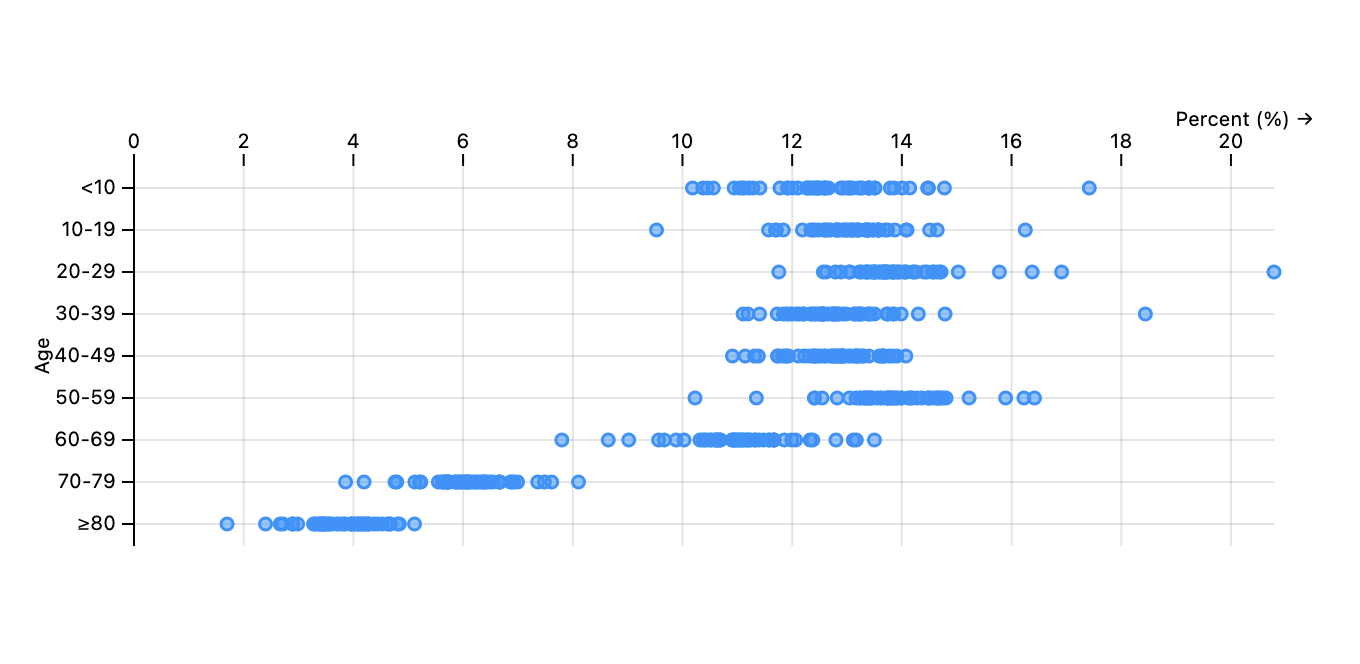
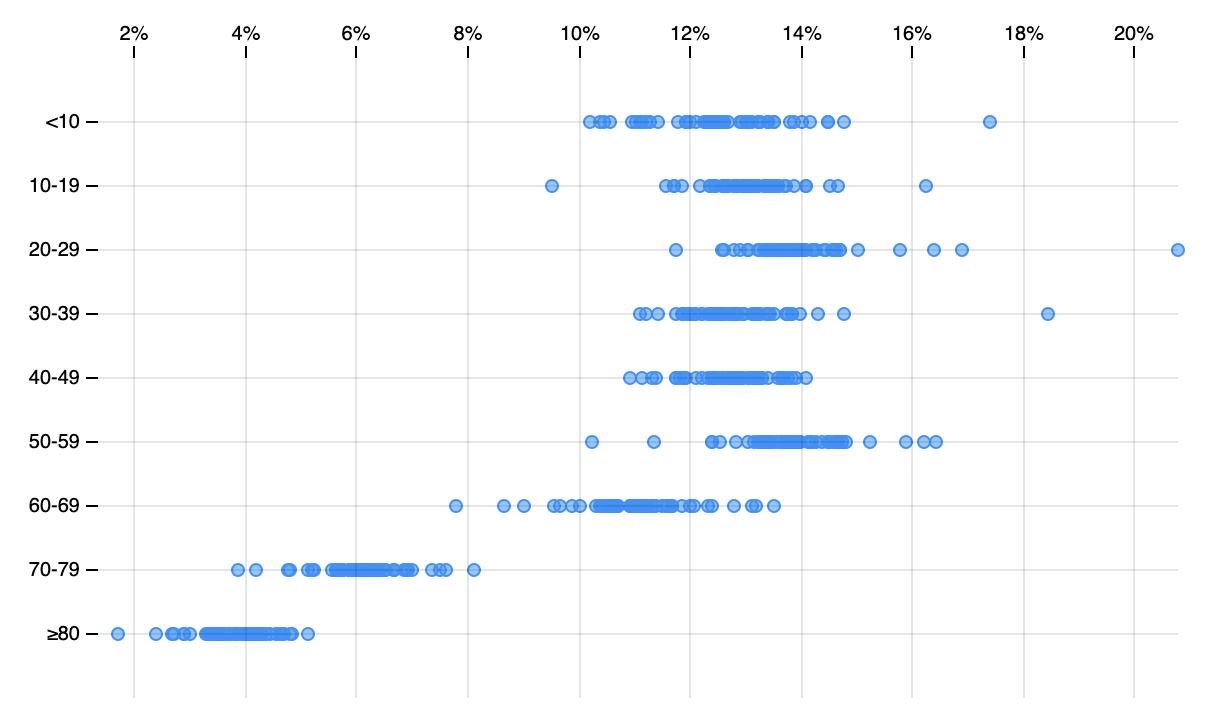
fix: rework StripPlot to pure d3 implementation

diff --git a/docs/pages/examples/strip-plot.tsx b/docs/pages/examples/strip-plot.tsx
@@ -1,89 +1,105 @@
 import * as React from 'react';
-import * as Plot from '@observablehq/plot';
 import Head from 'next/head';
+import * as fs from 'fs';
+import * as path from 'path';
+import * as d3 from 'd3';
 
-import { readData } from '../../helpers/server';
 import { withViewer } from '../../components/Viewer';
 
-enum AgeRange {
-  '<10',
-  '10-19',
-  '20-29',
-  '30-39',
-  '40-49',
-  '50-59',
-  '60-69',
-  '70-79',
-  '≥80',
-}
+const dimensions = {
+  width: 640,
+  height: 400,
+};
 
-const ages = Object.values(AgeRange).filter((x) => typeof x === 'string');
-
-interface StateDistribution {
-  name: string;
-  '<10': number;
-  '10-19': number;
-  '20-29': number;
-  '30-39': number;
-  '40-49': number;
-  '50-59': number;
-  '60-69': number;
-  '70-79': number;
-  '≥80': number;
-}
-
-interface StateAge {
+const margin = {
+  top: 40,
+  left: 60,
+  right: 40,
+  bottom: 40,
+};
+interface State {
   state: string;
-  age: AgeRange;
+  age: string;
   population: number;
 }
 
 interface Props {
-  data: StateAge[];
+  data: State[];
 }
 
 const Chart: React.FC<Props> = ({ data }) => {
-  const root = React.useRef<HTMLDivElement>(null);
+  const x = d3
+    .scaleLinear()
+    .domain(d3.extent(data, (d) => d.population))
+    .rangeRound([margin.left + 10, dimensions.width - margin.right]);
+
+  const y = d3
+    .scalePoint()
+    .domain(data.map((d) => d.age))
+    .rangeRound([margin.top, dimensions.height - margin.bottom])
+    .padding(1);
+
+  const xAxis = d3.axisTop(x).ticks(null, '%');
+  const yAxis = d3.axisLeft(y);
+
+  const xAxisRef = React.useRef<SVGGElement>(null);
+  const yAxisRef = React.useRef<SVGGElement>(null);
 
   React.useEffect(() => {
-    const node = root.current;
+    const xAx = xAxisRef.current;
+    const yAx = yAxisRef.current;
 
-    const plot = Plot.plot({
-      marginLeft: 50,
-      grid: true,
-      x: {
-        axis: 'top',
-        label: 'Percent (%) →',
-        transform: (d: number) => d * 100,
-      },
-      y: {
-        domain: ages,
-        label: 'Age',
-      },
-      marks: [
-        Plot.ruleX([0]),
-        Plot.dotX(data, {
-          ...Plot.normalizeX({
-            basis: 'sum',
-            z: 'state',
-            x: 'population',
-            y: 'age',
-          }),
-          fill: 'dodgerblue',
-          fillOpacity: 0.5,
-          stroke: 'dodgerblue',
-        }),
-      ],
-    });
+    d3.select(xAx)
+      .call(xAxis)
+      .call((g) =>
+        g
+          .selectAll('.tick line')
+          .clone()
+          .attr('stroke-opacity', 0.1)
+          .attr('y2', dimensions.height - margin.bottom - margin.top)
+      )
+      .call((g) => g.selectAll('.domain').remove());
 
-    node.appendChild(plot);
+    d3.select(yAx)
+      .call(yAxis)
+      .call((g) =>
+        g
+          .selectAll('.tick line')
+          .clone()
+          .attr('stroke-opacity', 0.1)
+          .attr('x2', dimensions.width - margin.right - margin.left)
+      )
+      .call((g) => g.selectAll('.domain').remove());
 
-    return (): void => {
-      node.removeChild(plot);
+    return () => {
+      d3.select(xAx).call((g) => g.selectAll('.tick line ~ line').remove());
+      d3.select(yAx).call((g) => g.selectAll('.tick line ~ line').remove());
     };
-  }, [data]);
+  }, [xAxis, yAxis]);
 
-  return <div ref={root}></div>;
+  return (
+    <svg
+      width={`${dimensions.width}`}
+      height={`${dimensions.height}`}
+      viewBox={`0 0 ${dimensions.width} ${dimensions.height}`}
+    >
+      <g>
+        {data.map((d) => (
+          <circle
+            key={`${d.state}-${d.age}`}
+            r="3"
+            cx={x(d.population)}
+            cy={y(d.age)}
+            fill="dodgerblue"
+            fillOpacity={0.5}
+            stroke="dodgerblue"
+          />
+        ))}
+      </g>
+      <g ref={xAxisRef} transform={`translate(0,${margin.top})`}></g>
+      <g ref={yAxisRef} transform={`translate(${margin.left}, 0)`}></g>
+    </svg>
+  );
 };
 
 const StripPlot: React.FC<Props> = ({ data }) => {
@@ -104,10 +120,16 @@ const StripPlot: React.FC<Props> = ({ data }) => {
 };
 
 export async function getStaticProps(): Promise<{ props: Props }> {
-  const states = readData<StateDistribution>('states');
-  const data = ages.flatMap((age) =>
-    states.map((d) => ({ state: d.name, age, population: d[age] } as StateAge))
+  const stateage = fs.readFileSync(
+    path.join(process.cwd(), 'data/us-distribution-state-age.csv')
   );
+  const data = d3.csvParse<State, keyof State>(stateage.toString(), (d) => {
+    return {
+      state: d.state,
+      age: d.age,
+      population: +d.population,
+    };
+  });
 
   return {
     props: {

diff --git a/docs/helpers/metadata.tsx b/docs/helpers/metadata.tsx
@@ -6,7 +6,6 @@ import StackedBarThumbnail from '../public/stacked-bar.png';
 import StripPlotThumbnail from '../public/strip-plot.png';
 import NYTVaccineVotingThumbnail from '../public/NYT-vaccine-voting.png';
 import NPRCovidShiftThumbnail from '../public/NPR-covid-shift.png';
-import D3DotPlotThumbnail from '../public/d3-dot-plot.png';
 
 interface ExampleMeta {
   src: StaticImageData;
@@ -37,10 +36,6 @@ export const metadata: Record<string, ExampleMeta> = {
   ['strip-plot']: {
     src: StripPlotThumbnail,
     alt: "A modified strip plot based on the Observable Plot documentation of the Tick Mark. The strip plot shows the age distribution of each state's population.",
-  },
-  ['d3-dot-plot']: {
-    src: D3DotPlotThumbnail,
-    alt: "Mike Bostock's Dot Plot example in D3, showing the age distribution of each state's population.",
   },
   ['NPR-covid-shift']: {
     src: NPRCovidShiftThumbnail,
